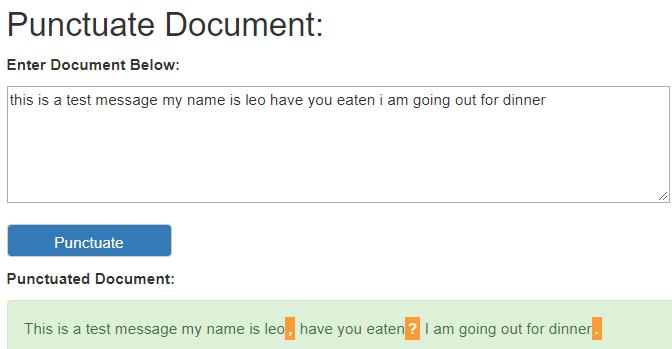
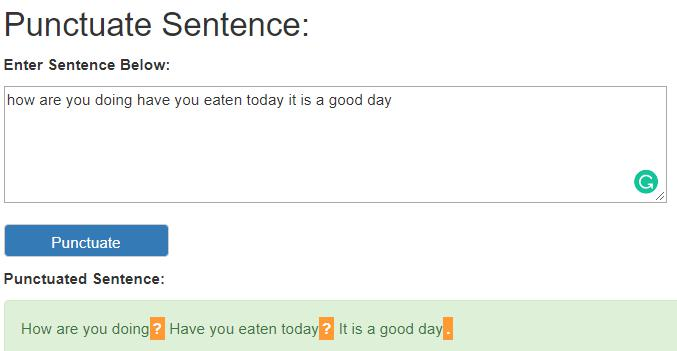
Updated code comments, readme and example screenshots

diff --git a/templates/index.html b/templates/index.html
@@ -2,7 +2,7 @@
 <html lang="en">
                 
 <head>
-  <title>Punctuator 2</title>
+  <title>Simple Punctuator</title>
   <meta charset="utf-8">
   <meta name="viewport" content="width=device-width, initial-scale=1">
   <link rel="stylesheet" href="https://maxcdn.bootstrapcdn.com/bootstrap/3.3.7/css/bootstrap.min.css"/>
@@ -17,8 +17,8 @@
 
    <div id="ptext" class="container-fluid sentence">
         <form id="text_in" method="POST" enctype="multipart/form-data">
-        <h2>Punctuate Document:</h2>
-        <p><strong>Enter Document Below:</strong></p>
+        <h2>Punctuate Sentence:</h2>
+        <p><strong>Enter Sentence Below:</strong></p>
         <div class="form-group">
             <textarea id='text' name='entered_text' rows="5", cols="80"></textarea>
         </div>
@@ -26,7 +26,7 @@
         <button id="input_text" name="ptext_btn" type="button" class="btn btn-default">Punctuate</button>
         </form>
         <p></p>
-        <p><strong>Punctuated Document:</strong></p>
+        <p><strong>Punctuated Sentence:</strong></p>
         <div id="text_successAlert" class="alert alert-success" role="alert" style="display:none;"></div>
         <div id="text_errorAlert" class="alert alert-danger" role="alert" style="display:none;"></div>
     </div>

diff --git a/static/script/script.js b/static/script/script.js
@@ -1,6 +1,8 @@
 'use strict';
 
+// Run after webpage has loaded
 $(document).ready(function() {
+    // When 'Punctuate' button is clicked, extract form data and post it via ajax to required endpoint
     $('#input_text').click(function() {
        const form = new FormData(document.getElementById('text_in'));
        $.ajax({
@@ -10,11 +12,14 @@ $(document).ready(function() {
            processData: false, // Required for form data
            contentType: false // Required for form data
        })
+        // After processing by endpoint
        .done(function(data){
+        // Display error message
         if (data.error) {
             $('#text_errorAlert').text(data.error).show();
             $('#text_successAlert').hide();
         }
+        // Display punctuated sentence and highlight punctuation
         else {
             $('#text_successAlert').text(data.result).show();
             let txt = $('#text_successAlert').text();

diff --git a/main.py b/main.py
@@ -5,10 +5,12 @@ from keras.preprocessing.sequence import pad_sequences
 from keras import backend
 backend.tensorflow_backend._get_available_gpus()
 
-# Define application parameters
+# Define Flask parameters
 app = Flask('__web_app__')
-models_folder = './models/'
+
+# Define models and data folders
 data_folder = './data/'
+models_folder = './models/'
 
 # Load words and labels vocabularies
 with open(data_folder+'ted_data_vocabs.json') as f:
@@ -17,7 +19,7 @@ with open(data_folder+'ted_data_vocabs.json') as f:
 with open(data_folder+'ted_data_labels.json') as f:
     labels = json.load(f)
 
-# Load pre-trained model on application start-up
+# Load pre-trained model on Flask start-up
 print('Loading Model')
 model = load_model('./models/ted_data_train_model.h5')
 model._make_predict_function()
@@ -35,10 +37,14 @@ def process_input(text):
     Returns:
         - padded_text: Tokenized and padded text
     '''
+    # Create list to store tokenized sentence
     tokenized_text = []    
+    # Append tokenized sentence to list
     tokenized_text.append([vocabs[word] for word in text.split()])
+    # Pad tokenized sentence to max sentence length of 128
     padded_text = pad_sequences(tokenized_text, maxlen=128, padding='post', value=0)
 
+    # Return padded sentence
     return padded_text
 
 def make_prediction(processed_text):
@@ -52,24 +58,32 @@ def make_prediction(processed_text):
     Returns:
         - restored_text: Punctuated input text
     '''
+    # Create list to store original sentence
     words_seq = []
+    # Iterate tokenized text, extract corresponding text and append it to list
     for seq in processed_text:
         for word in seq:
             for value, index in vocabs.items():
                 if word == index:
                     words_seq.append(value)
 
+    # Make prediction on tokenized sentence
     prediction = model.predict(np.expand_dims(processed_text[0], axis=0))
+    # Extracted predicted labels from one-hot encoding
     labels_seq = [np.argmax(word, axis=1) for word in prediction]
 
+    # Create list to store restored predicted labels
     restore_labels = []
+    # Iterate through extracted labels, extract corresponding label text and append it to list
     for labs in labels_seq:
         for lab in labs:
             for value, index in labels.items():
                 if lab == index:
                     restore_labels.append(value)
 
+    # Create list to store punctuated sentence
     restored_text = []         
+    # Iterate thorugh original sentence and merge with predicted labels text
     for i in range(len(words_seq)):
         if restore_labels[i] == '<comma>':
             restored_text.append(str(words_seq[i])+',')
@@ -84,6 +98,7 @@ def make_prediction(processed_text):
         else:
             restored_text.append(str(words_seq[i]))
 
+    # Capitalize first word in a sentence and 'I'
     for i in range(len(restored_text)):
         if '.' in restored_text[i] or '?' in restored_text[i]:
             restored_text[i+1] = restored_text[i+1].capitalize()
@@ -91,11 +106,14 @@ def make_prediction(processed_text):
             restored_text[i] = restored_text[i].capitalize()
         else:
             continue
-   
+
+    # Join sentence from list
     restored_text = ' '.join(restored_text)
+    # Remove <pad> tokens
     restored_text = restored_text.replace('<pad>', '')
     restored_text = restored_text[0].capitalize()+restored_text[1:].replace('ive', "I've")
     
+    # Return restored sentence
     return restored_text
 
 # Define Flask endpoints/routes
@@ -108,22 +126,31 @@ def punct_text():
     Returns:
         - Json result of punctuated text
     '''
+    # Extract entered sentence from submitted form data
     entered_text = request.form['entered_text']
     print('Making Predictions')
     start = time.time()
-    processed_text = process_input(entered_text)
-    predicted = make_prediction(processed_text)
-    print('Completed. Time taken: {:.3f} seconds'.format(time.time()-start))
+    try:
+        # Tokenize sentence
+        processed_text = process_input(entered_text)
+        # Make predictions on tokenized sentence
+        predicted = make_prediction(processed_text)
+        print('Completed. Time taken: {:.3f} seconds'.format(time.time()-start))
 
-    return jsonify(result=predicted)
-
+        # Return jsonified restored sentence
+        return jsonify(result=predicted)
+    except:
+        return jsonify(error='Sentence error, please kindly re-check')
+    
 @app.route('/', methods=['GET', 'POST'])
 def index():
     '''
     Description: Flask endpoint to render index webpage
     '''
+
+    # Display default page
     return render_template('index.html')
 
-# Start application
+# Start Flask
 if __name__ == '__main__':
     app.run(debug=True, host='0.0.0.0', use_reloader=False)

diff --git a/README.md b/README.md
@@ -1,7 +1,7 @@
 ## Flask web application to serve punctuation model
 
 ### Summary:
-Serving a pre-trained model using Flask. Allows users to visit the website to make puncutations on un-punctuated text.
+A simple Flask web application allowing users to visit and make punctuation on un-punctuated sentences.
 
 **Input:** Sentence without punctuation  
 **Output:** Sentence with predicted punctuations
@@ -47,5 +47,6 @@ flask: 1.0.2
 4. Navigate to the [localhost website](http://localhost:5000)
 5. Enter un-punctuated text and click on "Punctuate" to make predictions
 
-### Example Results:
+### Example Results (Success/Error):
 ![Example](./images/example.jpg)
+![Error](./images/error.jpg)
